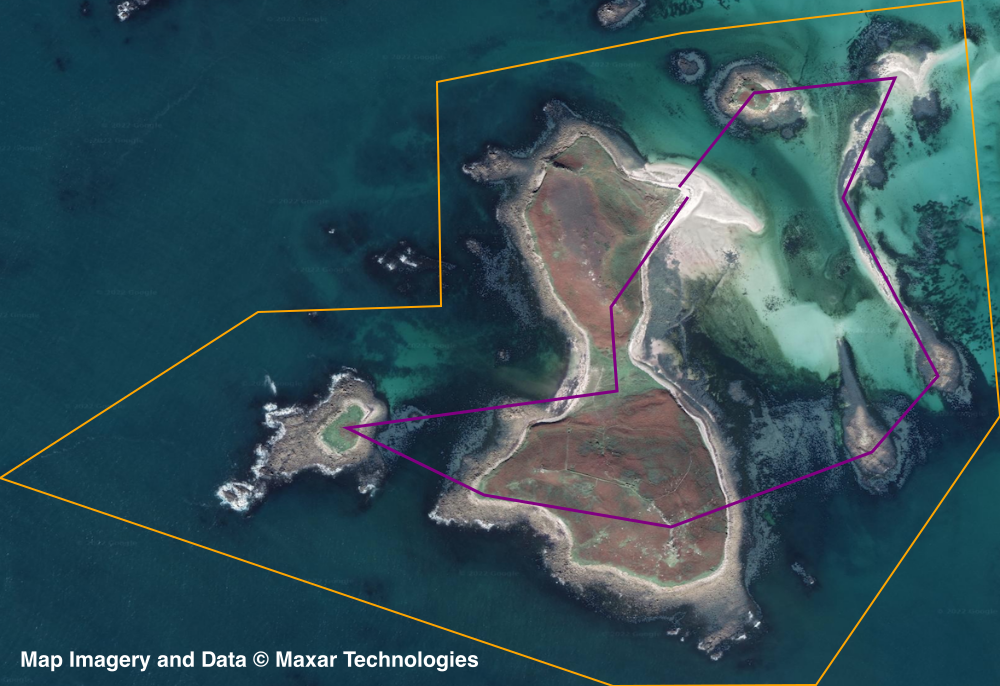
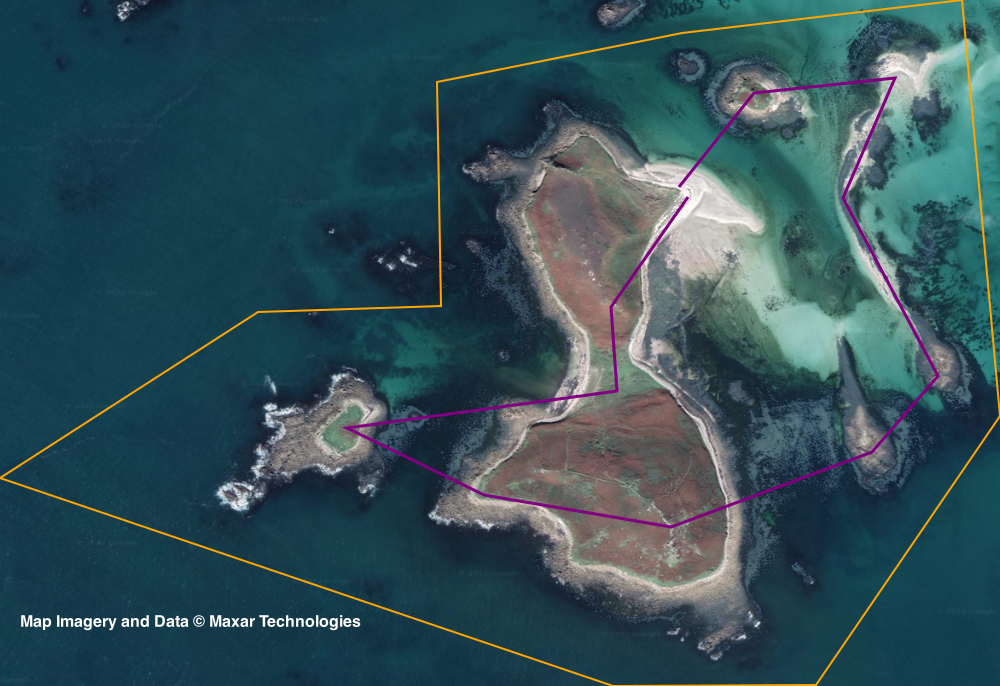
changed writing position

Changed region(s): [[0.0, 0.949, 0.496, 0.9796], [0.0, 0.8878, 0.372, 0.9184]]

diff --git a/drawFlightPlan.js b/drawFlightPlan.js
@@ -110,9 +110,9 @@ function draw(shape, colour, lineWidth) {
 
 // Writes map data acknowledgments
 function writeAcknowledgements(text) {
-    ctx.font = 'bold 16pt Helvetica';
+    ctx.font = 'bold 12pt Helvetica';
     ctx.fillStyle = '#fff';
-    ctx.fillText(text, 20, height - 20);
+    ctx.fillText(text, 20, height - 60);
 }
 
 // Creates png image file from canvas
